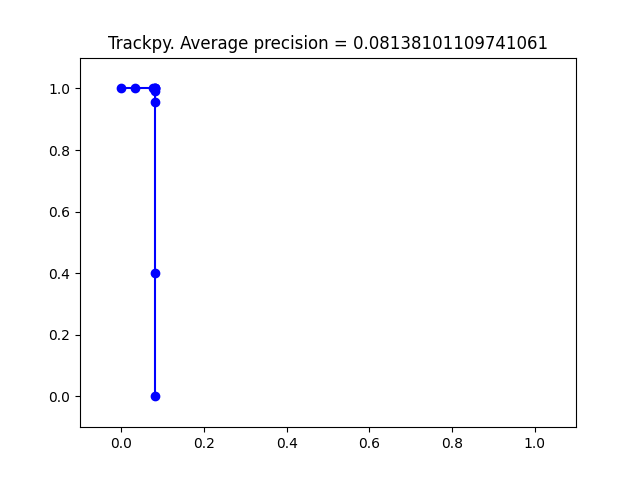
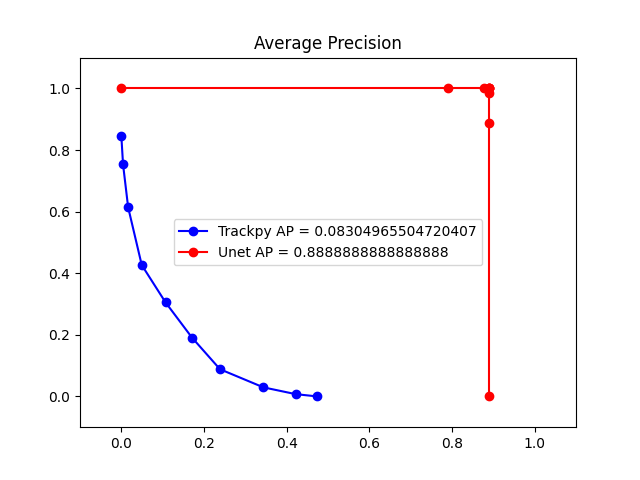
accuracy metric fixes

diff --git a/scripts/trackpy_accuracy.py b/scripts/trackpy_accuracy.py
@@ -13,7 +13,7 @@ def run_trackpy(array, diameter=11):
 	f = [list(f[:]['z']), list(f[:]['x']), list(f[:]['y'])]
 	new = []
 	for i in range(0, len(f[0])):
-		new.append([ f[0][i], f[2][i], f[1][i] ])
+		new.append([ f[0][i], f[1][i], f[2][i] ])
 	tp_predictions = np.array(new)
 
 	return tp_predictions
@@ -52,26 +52,33 @@ def gr(positions, cutoff, bins, minimum_gas_number=1):
 
 
 if __name__ == '__main__':
-	dataset_path = '/home/ak18001/Data/HDD/Colloids'
-	# dataset_path = '/home/wahab/Data/HDD/Colloids'
+	# dataset_path = '/home/ak18001/Data/HDD/Colloids'
+	dataset_path = '/home/wahab/Data/HDD/Colloids'
 	# dataset_path = '/mnt/storage/home/ak18001/scratch/Colloids'
 	dc = DeepColloid(dataset_path)
-	dataset_name = 'new_year'
+	dataset_name = 'janpoly'
 
-	canvas, metadata, gt_positions = dc.read_hdf5(dataset_name, 3007, read_metadata=True)
+	# canvas, label, gt_positions, metadata = dc.read_hdf5_old(dataset_name, 3007)
+	data = dc.read_hdf5(dataset_name, 171)
+	canvas, metadata, gt_positions = data['image'], data['metadata'], data['positions']
 	print(metadata)
 	diameters = [metadata['params']['r']*2 for i in range(len(gt_positions))]
 
 	tp_predictions = run_trackpy(canvas, diameter=metadata['params']['r']*2-1)
-	print(metadata)
-	print(gt_positions.shape, tp_predictions.shape)
+
+
+	unet_pos, label = dc.detect(canvas, debug=True)
+	print(gt_positions.shape, tp_predictions.shape, unet_pos.shape)
+	print(gt_positions[0], tp_predictions[0], unet_pos[0])
 
 	# dc.view(canvas, tp_predictions)
 
-	x, y = gr(gt_positions, 7, 25)
+	x, y = dc.get_gr(gt_positions, 50, 50)
 	plt.plot(x, y, label='true')
-	x, y = gr(tp_predictions, 7, 25)
-	plt.plot(x, y, label='pred')
+	x, y = dc.get_gr(tp_predictions, 50, 50)
+	plt.plot(x, y, label='trackpy')
+	x, y = dc.get_gr(unet_pos, 50, 50)
+	plt.plot(x, y, label='unet')
 	plt.legend()
 	# plt.show()
 	plt.savefig('output/gr.png')
@@ -79,7 +86,10 @@ if __name__ == '__main__':
 	plt.clf()
 
 	ap, precisions, recalls, thresholds = dc.average_precision(gt_positions, tp_predictions, diameters=diameters)
-	fig = dc.plot_pr(ap, precisions=precisions, recalls=recalls, thresholds=thresholds, name='Trackpy')
+	fig = dc.plot_pr(ap, precisions=precisions, recalls=recalls, thresholds=thresholds, name='Trackpy', tag='bo-')
+	ap, precisions, recalls, thresholds = dc.average_precision(gt_positions, unet_pos, diameters=diameters)
+	fig = dc.plot_pr(ap, precisions=precisions, recalls=recalls, thresholds=thresholds, name='Unet', tag='ro-')
+	# plt.show()
 	plt.savefig('output/roc_trackpy.png')
 	
 

diff --git a/colloidoscope/deepcolloid.py b/colloidoscope/deepcolloid.py
@@ -32,8 +32,8 @@ class DeepColloid:
 		# print(f'Reading hdf5 dataset: {path} sample number {n}')
 		with h5py.File(path, "r") as f:
 			canvas = np.array(f[str(n)])
-			positions = np.array(f[str(n)+'_positions'])
 			label = np.array(f[str(n)+'_labels'])
+			positions = np.array(f[str(n)+'_positions'])
 			diameters = np.array(f[str(n)+'_diameters'])
 		
 		json_path = f'{self.dataset_path}/{dataset}.json'
@@ -50,6 +50,26 @@ class DeepColloid:
 		}
 
 		return data
+
+	def read_hdf5_old(self, dataset: str, n: int) -> dict:
+		path = f'{self.dataset_path}/{dataset}.hdf5'
+		# print(f'Reading hdf5 dataset: {path} sample number {n}')
+		with h5py.File(path, "r") as f:
+			canvas = np.array(f[str(n)])
+			positions = np.array(f[str(n)+'_positions'], dtype='float32')
+			# diameters = np.array(f[str(n)+'_diameters'])
+		
+		path = f'{self.dataset_path}/{dataset}_labels.hdf5'
+		with h5py.File(path, "r") as f:
+			label = np.array(f[str(n)])
+
+		json_path = f'{self.dataset_path}/{dataset}.json'
+		with open(json_path, "r+") as f:
+			json_data = json.load(f)
+			metadata = json_data[str(n)]
+
+
+		return canvas, label, positions, metadata
 
 	def read_metadata(self, dataset: str, n: int) -> dict:
 		json_path = f'{self.dataset_path}/{dataset}.json'
@@ -130,8 +150,6 @@ class DeepColloid:
 	def get_gr(self, positions, cutoff, bins, minimum_gas_number=1e4):
 		# from yushi yang
 
-
-
 		bins = np.linspace(0, cutoff, bins)
 		drs = bins[1:] - bins[:-1]
 		distances = pdist(positions).ravel()
@@ -150,9 +168,8 @@ class DeepColloid:
 
 		hist = np.histogram(distances, bins=bins)[0]
 
-		print(hist, rg_hist)
-
-		rg_hist[rg_hist==0] = 0.000001
+		# print(hist, rg_hist)
+		# rg_hist[rg_hist==0] = 0.000001
 
 		hist = hist / rg_hist # pdfs
 		hist[np.isnan(hist)] = 0
@@ -296,14 +313,15 @@ class DeepColloid:
 
 		return ap, precisions, recalls, thresholds
 
-	def plot_pr(self, ap, precisions, recalls, thresholds, name):
+	def plot_pr(self, ap, precisions, recalls, thresholds, name, tag='bo-'):
 		# display = metrics.PrecisionRecallDisplay(precision=precisions, 
 		# 								recall=recalls, estimator_name=name).plot()
 
-		plt.plot(recalls, precisions, 'bo-')
-		plt.title(f'{name}. Average precision = {ap}')
+		plt.plot(recalls, precisions, tag, label=f'{name} AP = {ap}')
+		plt.title('Average Precision')
 		plt.xlim([-0.1,1.1])
 		plt.ylim([-0.1,1.1])
+		plt.legend()
 		return plt.gcf()
 
 	def crop3d(self, array, roiSize, center=None):

diff --git a/scripts/simulate_poly.py b/scripts/simulate_poly.py
@@ -61,7 +61,7 @@ if __name__ == '__main__':
 
 			metadata = {
 				'dataset': dataset_name,
-				'n' 	 : n,
+				'n' 	 : index,
 				'type'	 : this_type,
 				'volfrac': volfrac,
 				'params' : types[this_type],
